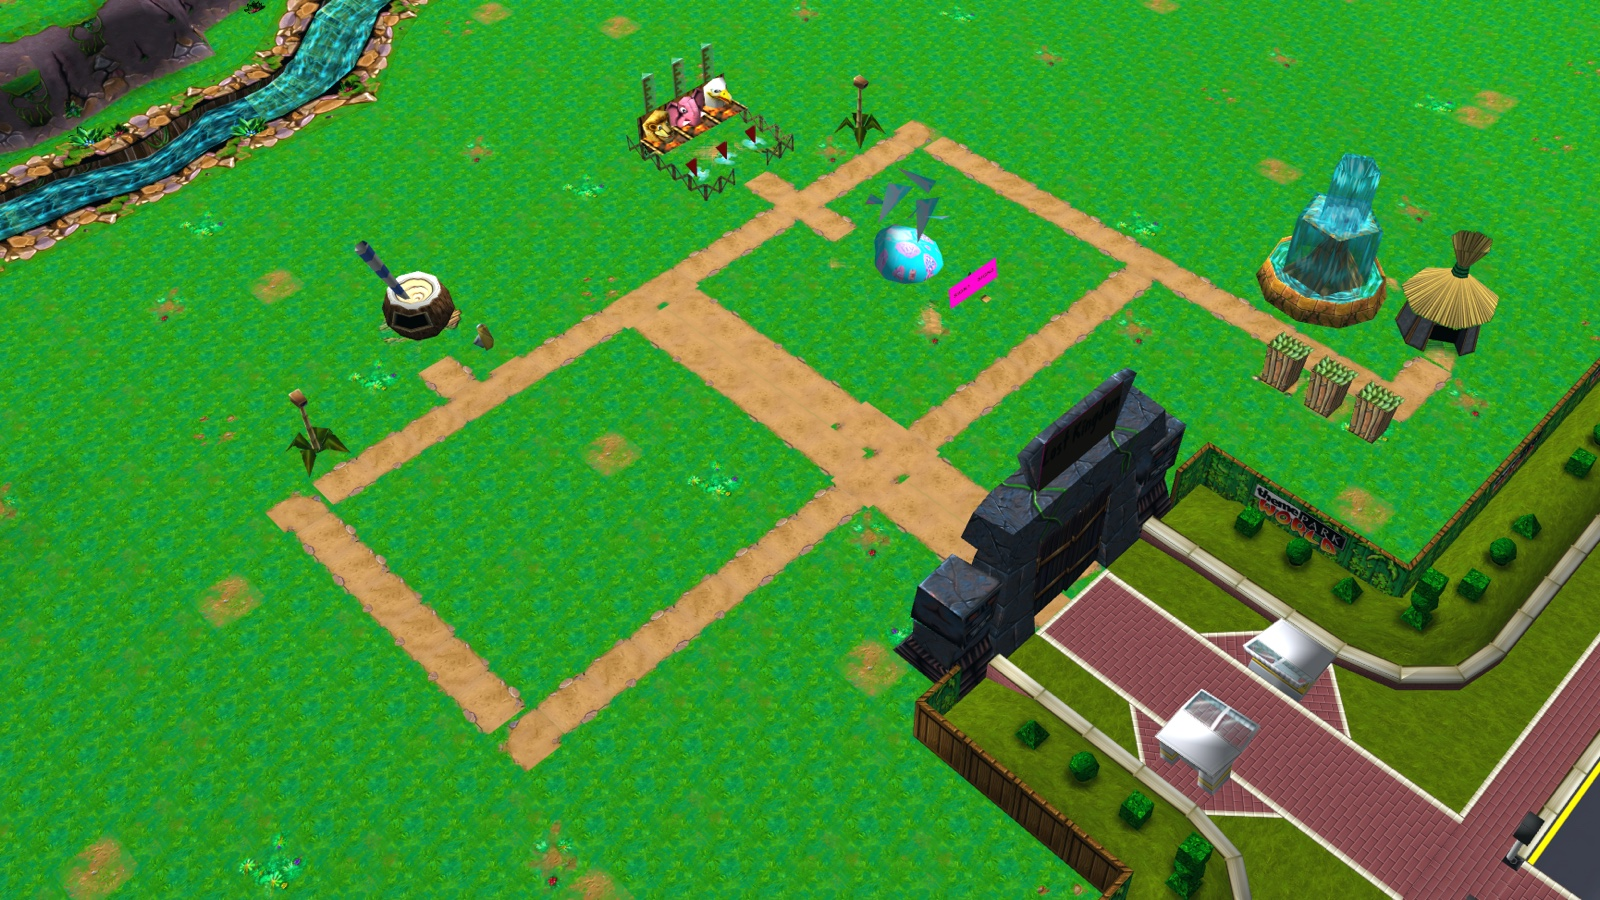
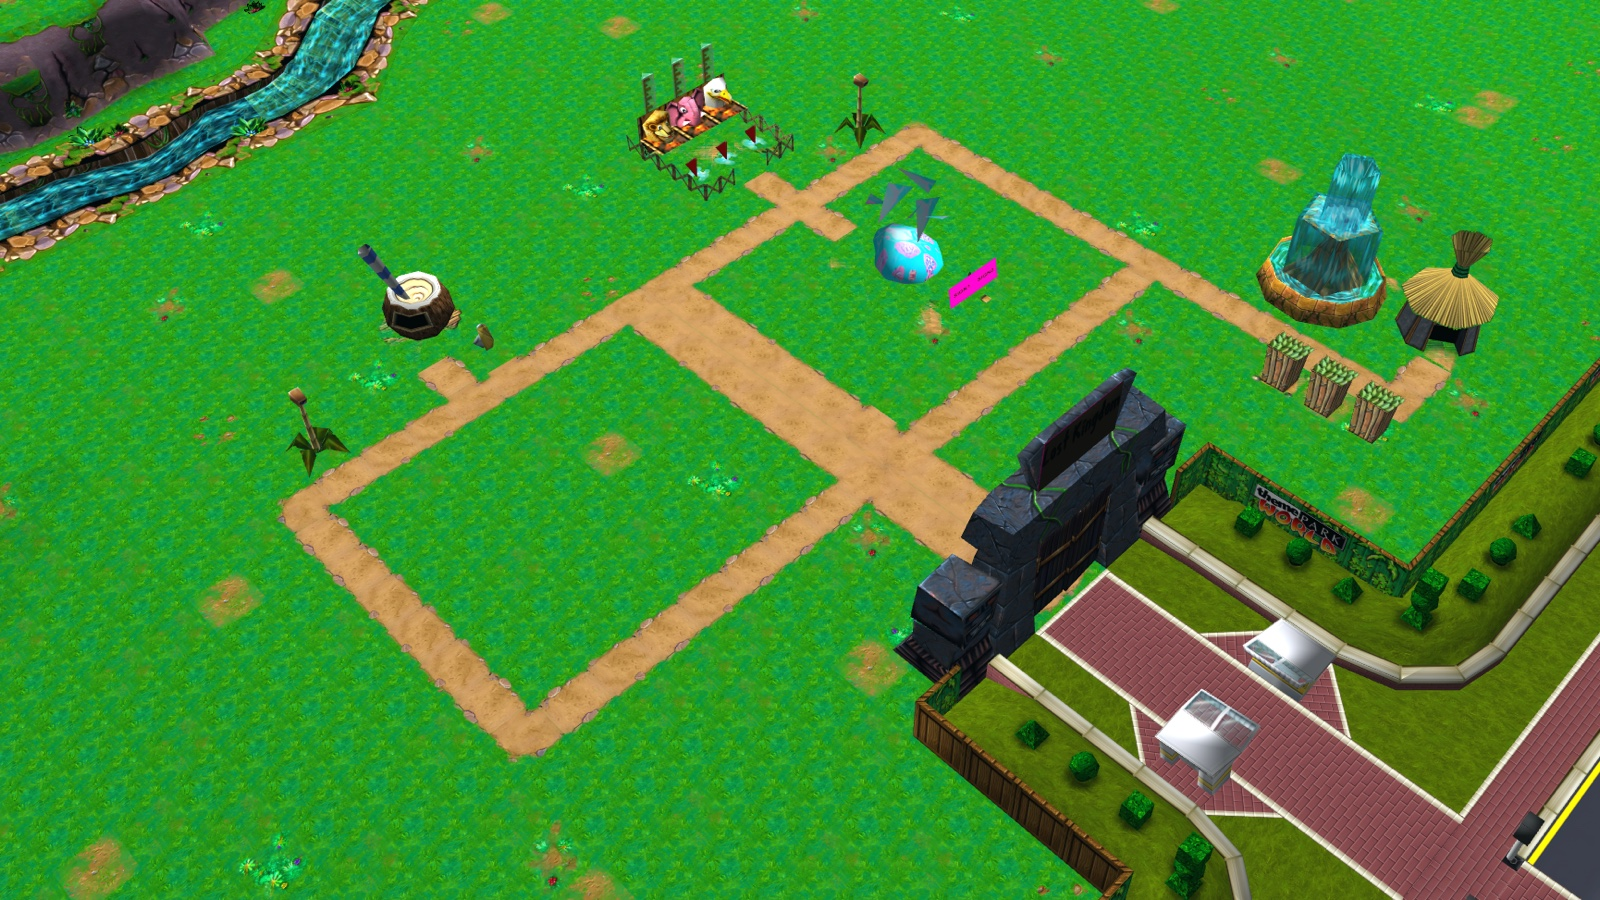
Fix the path texture V flip and reuse path layer materials
Codex review found that the terrain shader already flips V, so the
extra flip mirrored every path tile north-south; bends and Ts no longer
met their neighbours. TextureCoordinates now returns vertex V growing
with +Y and the test pins that against the shader's flip. Checked again
by a full-resolution capture of a bend.

- RefreshPaths reuses each texture set's material instead of creating
  new ones on every rebuild (materials are never disposed).
- The variant test pins the picks of four cells instead of comparing a
  call with itself; PATHS.md says the rule predicts shape and turn, not
  which of the two straights or edges the original chose.
- The site screenshot is rerendered from the fixed build.

diff --git a/source/OpenTPW/World/Original/OriginalTerrain.cs b/source/OpenTPW/World/Original/OriginalTerrain.cs
@@ -43,6 +43,8 @@ public sealed class OriginalTerrain : Entity
 	public int PathCellCount { get; private set; }
 	private Dictionary<string, Texture>? heightfieldTextures;
 	private readonly List<ModelEntity> pathParts = new();
+	/// <summary>Path layer materials by texture set; reused when the layer is rebuilt, because materials are never disposed.</summary>
+	private readonly Dictionary<string, Material> pathMaterials = new();
 
 	/// <summary>Rebuilds the path layer so built and removed path cells show.</summary>
 	public void RefreshPaths()
@@ -132,11 +134,16 @@ public sealed class OriginalTerrain : Entity
 			for ( var slot = 0; slot < batch.Length; slot++ )
 				foreach ( var (x, y, rotation) in cells[batch[slot]] )
 					AddCell( vertices, indices, field, x, y, slot, rotation, lift );
-			var material = new Material<ObjectUniformBuffer>( "content/shaders/test.shader" );
-			while ( slots.Count < MaximumTextureSlots )
-				slots.Add( slots[0] );
-			// Clamped: a repeating sampler would blend each tile's open edge with its transparent opposite edge.
-			material.Set( "Color", slots.ToArray(), SamplerType.Anisotropic );
+			var key = string.Join( ',', batch );
+			if ( !pathMaterials.TryGetValue( key, out var material ) )
+			{
+				material = new Material<ObjectUniformBuffer>( "content/shaders/test.shader" );
+				while ( slots.Count < MaximumTextureSlots )
+					slots.Add( slots[0] );
+				// Clamped: a repeating sampler would blend each tile's open edge with its transparent opposite edge.
+				material.Set( "Color", slots.ToArray(), SamplerType.Anisotropic );
+				pathMaterials.Add( key, material );
+			}
 			pathParts.Add( AddPart( new Model( vertices.ToArray(), indices.ToArray(), material ), $"paths {pathParts.Count}" ) );
 		}
 	}
@@ -154,8 +161,8 @@ public sealed class OriginalTerrain : Entity
 	}
 
 	/// <summary>
-	/// One cell quad. <paramref name="rotation"/> is a path texture's clockwise turn (−Y to +X); path textures have
-	/// +Y at their top row, so those quads also flip V (docs/PATHS.md, "Path textures").
+	/// One cell quad. <paramref name="rotation"/> is a path texture's clockwise turn (−Y to +X), applied through
+	/// <see cref="PathTiles.TextureCoordinates"/> (docs/PATHS.md, "Path textures"); ground quads keep their coordinates.
 	/// </summary>
 	private static void AddCell( List<Vertex> vertices, List<uint> indices, ModelHeightfield field, int x, int y, int slot, int rotation, float lift )
 	{

diff --git a/source/OpenTPW.Tests/PathTilesTests.cs b/source/OpenTPW.Tests/PathTilesTests.cs
@@ -40,20 +40,22 @@ public class PathTilesTests
 		var picks = Enumerable.Range( 0, 64 ).Select( index => PathTiles.Choose( 0x11, index % 8, index / 8 ).TextureIndex ).ToArray();
 		CollectionAssert.IsSubsetOf( picks.Distinct().ToArray(), new[] { 2, PathTiles.StraightVariant } );
 		Assert.AreEqual( 2, picks.Distinct().Count() );
-		Assert.AreEqual( PathTiles.Choose( 0x11, 3, 5 ), PathTiles.Choose( 0x11, 3, 5 ) );
+		// Pinned picks: a change to the hash would change built paths that players already see.
+		CollectionAssert.AreEqual( new[] { 2, 19, 19, 2 }, new[] { (0, 0), (1, 0), (0, 1), (1, 1) }.Select( cell => PathTiles.Choose( 0x11, cell.Item1, cell.Item2 ).TextureIndex ).ToArray() );
 		CollectionAssert.IsSubsetOf( Enumerable.Range( 0, 16 ).Select( index => PathTiles.Choose( 0x1F, index, 1 ).TextureIndex ).Distinct().ToArray(), new[] { 10, PathTiles.EdgeVariant } );
 	}
 
 	[TestMethod]
 	public void TurnedTexturesShowTheirSidesWhereTheMaskTurnedThem()
 	{
-		// Texture sides at rotation 0: +X is the right column (u = 1), +Y the top row (v = 0).
+		// Texture sides at rotation 0: +X is the right column (u = 1), +Y the top row, which the terrain shader's
+		// V flip (v' = 1 − v) samples at vertex v = 1.
 		Assert.AreEqual( (1f, 0.5f), PathTiles.TextureCoordinates( 1, 0.5f, 0 ), "cell +X edge shows texture +X" );
-		Assert.AreEqual( (0.5f, 0f), PathTiles.TextureCoordinates( 0.5f, 1, 0 ), "cell +Y edge shows texture +Y" );
+		Assert.AreEqual( (0.5f, 1f), PathTiles.TextureCoordinates( 0.5f, 1, 0 ), "cell +Y edge shows texture +Y" );
 		// A quarter turn moves −Y to +X, +X to +Y, +Y to −X: the cell's −X edge shows the texture's +Y side.
-		Assert.AreEqual( (0.5f, 0f), PathTiles.TextureCoordinates( 0, 0.5f, 90 ) );
+		Assert.AreEqual( (0.5f, 1f), PathTiles.TextureCoordinates( 0, 0.5f, 90 ) );
 		Assert.AreEqual( (1f, 0.5f), PathTiles.TextureCoordinates( 0.5f, 1, 90 ) );
-		Assert.AreEqual( (0.5f, 1f), PathTiles.TextureCoordinates( 1, 0.5f, 90 ) );
+		Assert.AreEqual( (0.5f, 0f), PathTiles.TextureCoordinates( 1, 0.5f, 90 ) );
 		Assert.AreEqual( PathTiles.TextureCoordinates( 0, 0, 0 ), PathTiles.TextureCoordinates( 0, 0, 360 ) );
 		for ( var mask = 0; mask < 256; mask++ )
 			Assert.AreEqual( PathTiles.Reduce( (byte)mask ), PathTiles.Reduce( PathTiles.Turn( PathTiles.Turn( PathTiles.Turn( PathTiles.Turn( (byte)mask ) ) ) ) ) );

diff --git a/source/OpenTPW/World/Original/PathTiles.cs b/source/OpenTPW/World/Original/PathTiles.cs
@@ -103,15 +103,16 @@ public static class PathTiles
 	}
 
 	/// <summary>
-	/// Texture coordinates for the cell corner (<paramref name="fx"/>, <paramref name="fy"/>) ∈ [0, 1]² of a path tile
-	/// turned <paramref name="rotation"/> degrees clockwise. The textures have +X to the right and +Y at the top row.
+	/// Vertex texture coordinates for the cell corner (<paramref name="fx"/>, <paramref name="fy"/>) ∈ [0, 1]² of a path
+	/// tile turned <paramref name="rotation"/> degrees clockwise. The textures have +X to the right and +Y at the top
+	/// row; the terrain shader flips V, so V grows with +Y here.
 	/// </summary>
 	public static (float U, float V) TextureCoordinates( float fx, float fy, int rotation )
 	{
 		var (dx, dy) = (fx - 0.5f, fy - 0.5f);
 		for ( var quarter = (rotation / 90 % 4 + 4) % 4; quarter > 0; quarter-- )
 			(dx, dy) = (dy, -dx);
-		return (dx + 0.5f, 0.5f - dy);
+		return (dx + 0.5f, dy + 0.5f);
 	}
 
 	/// <summary>The shape an index of the theme's <c>PathTex</c> list draws (variants and the duplicate centre map to their base).</summary>

diff --git a/docs/PATHS.md b/docs/PATHS.md
@@ -89,7 +89,8 @@ u16 at +21 is a clockwise turn in degrees. Both follow from the neighbour bits a
   symmetric shapes use the smallest turn.
 - The textures have +X to the right and +Y in the top row.
 
-All 78 path cells of the Easymode save match this rule (`PathTilesTests`): every texture and turn.
+All 78 path cells of the Easymode save match this rule (`PathTilesTests`): every shape and turn. Which of
+the two straights or edges a cell has is the original's own choice and is not predicted.
 That includes cells whose extra diagonal bits the rule ignores (0x13, 0x53, 0x93, 0x9F, 0xF9). The routine
 in the original that writes these bytes was not located (no table for it exists in `TP.ICD` or the Mac
 binary), so the rule is derived from the data.
